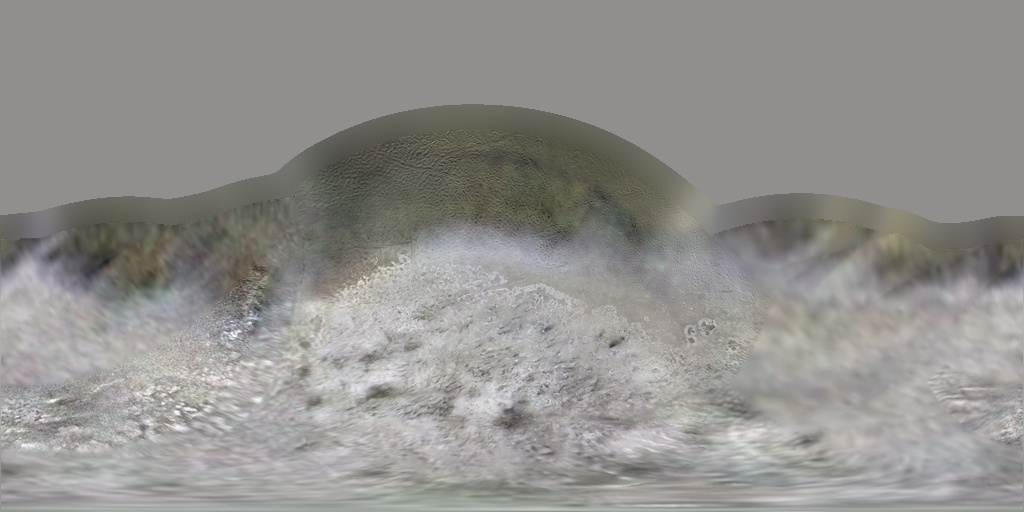
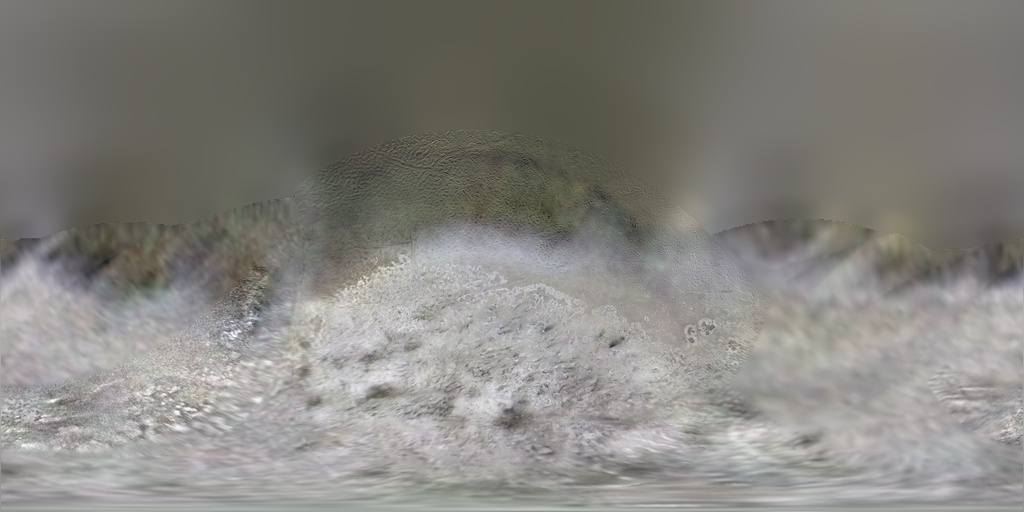
AST-381-03 iter 5: multi-scale normalised-convolution guide (no constant-mean band)

diff --git a/tools/ingest/partial_recon.py b/tools/ingest/partial_recon.py
@@ -41,15 +41,19 @@ for name, thr in BODIES.items():
     din = ndimage.distance_transform_edt(tiledo)[:, W:2 * W] * (180.0 / H)                 # deg from the gap (inside data)
     w = np.clip(d / FEATHER_DEG, 0, 1); w = w * w * (3 - 2 * w); w[obs] = 0
     core = obs & (din > RIM_DEG)
-    sig = SIGMA_DEG * H / 180.0
-    den = gauss_wrap(core.astype(float), sig)
+    # iteration 5: multi-scale normalised convolution (3.5°, 10°, 25°; weights 1, 0.05, 0.0025) so the guide decays
+    # smoothly from the local regional colour into a wide-area continuation — iteration 4 switched to a constant mean
+    # ≈10° from the data, which drew a band; the far value is the observed colour near the boundary, not the global mean
+    band = core & (din < RIM_DEG + 12.0)
+    gm = rgb[band].mean(0) if band.sum() > 100 else rgb[core].mean(0)
     gm_global = rgb[core].mean(0)
-    zone = core & (din < 20.0)                    # observed core within 20° of the gap: the relax target (iteration 4)
-    gm = rgb[zone].mean(0) if zone.sum() > 100 else gm_global
-    guide = np.zeros_like(rgb); relax = np.clip(d / RELAX_DEG, 0, 1)
-    for k in range(3):
-        ext = np.where(den > 1e-3, gauss_wrap(np.where(core, rgb[..., k], 0.0), sig) / np.maximum(den, 1e-6), gm[k])
-        guide[..., k] = ext * (1 - relax) + gm[k] * relax
+    num = np.zeros_like(rgb); den = np.zeros(Y.shape)
+    for sdeg, wgt in [(SIGMA_DEG, 1.0), (10.0, 0.05), (25.0, 0.0025)]:
+        sg = sdeg * H / 180.0; src = band if sdeg > SIGMA_DEG else core
+        den += wgt * gauss_wrap(src.astype(float), sg)
+        for k in range(3): num[..., k] += wgt * gauss_wrap(np.where(src, rgb[..., k], 0.0), sg)
+    eps = 1e-6
+    guide = (num + gm * eps) / (den + eps)[..., None]
     guide[obs] = rgb[obs]                                      # never used on observed pixels (w = 0); keeps the JPEG smooth
     # contrast statistics of the observed core: fine (≲2 px) and mid (1°–6° band, difference of Gaussians), relative
     hp = Y - gauss_wrap(np.where(obs, Y, 0.0), 2.0) / np.maximum(gauss_wrap(obs.astype(float), 2.0), 1e-6)
